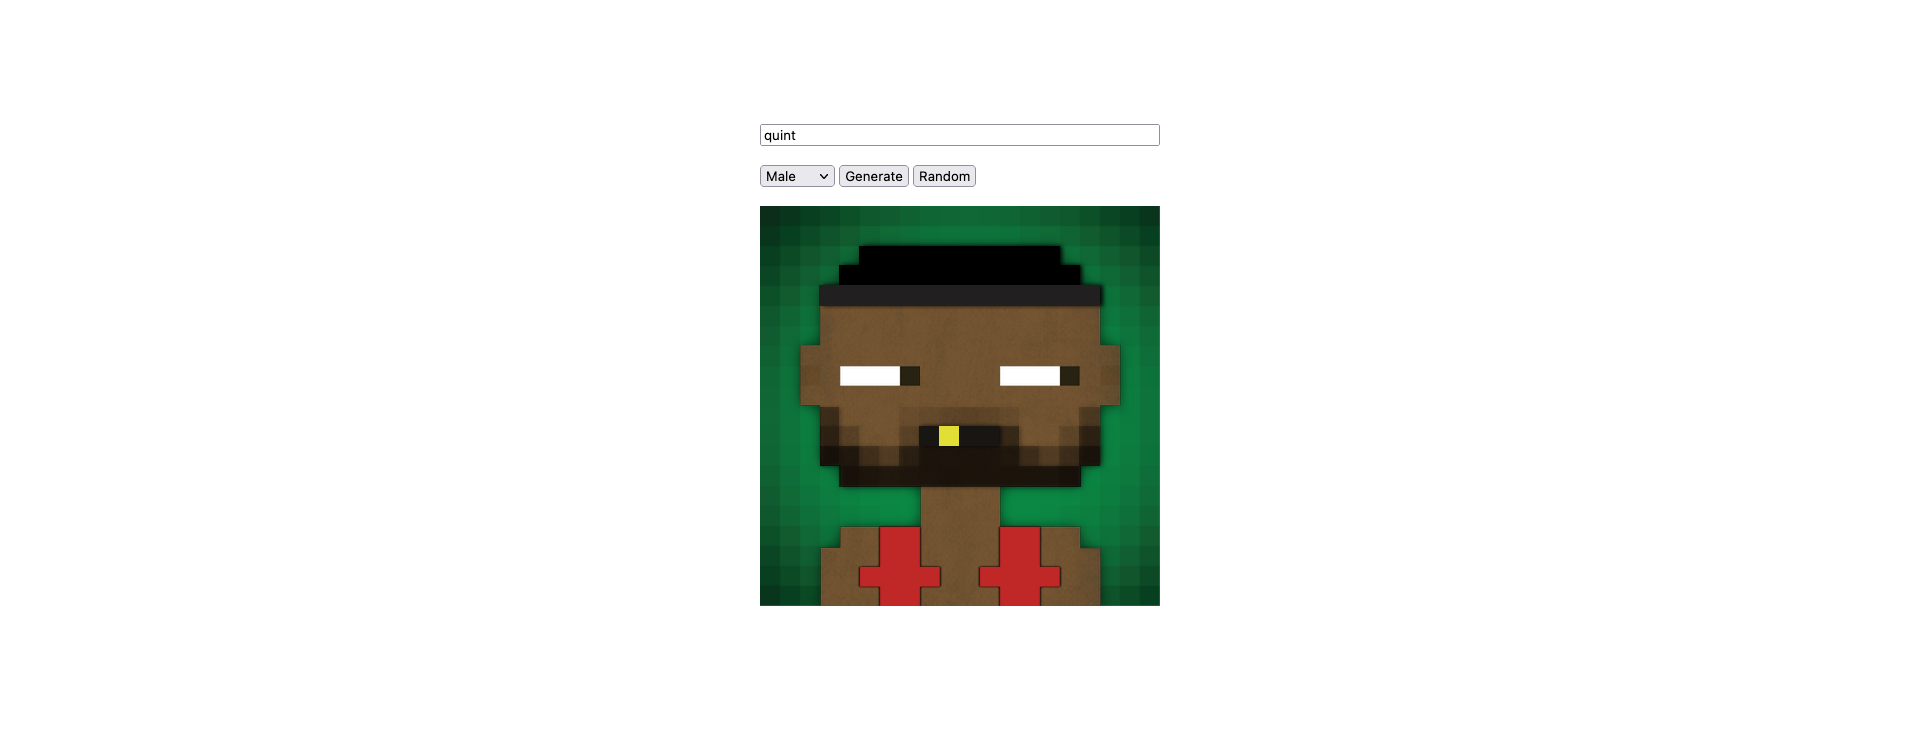
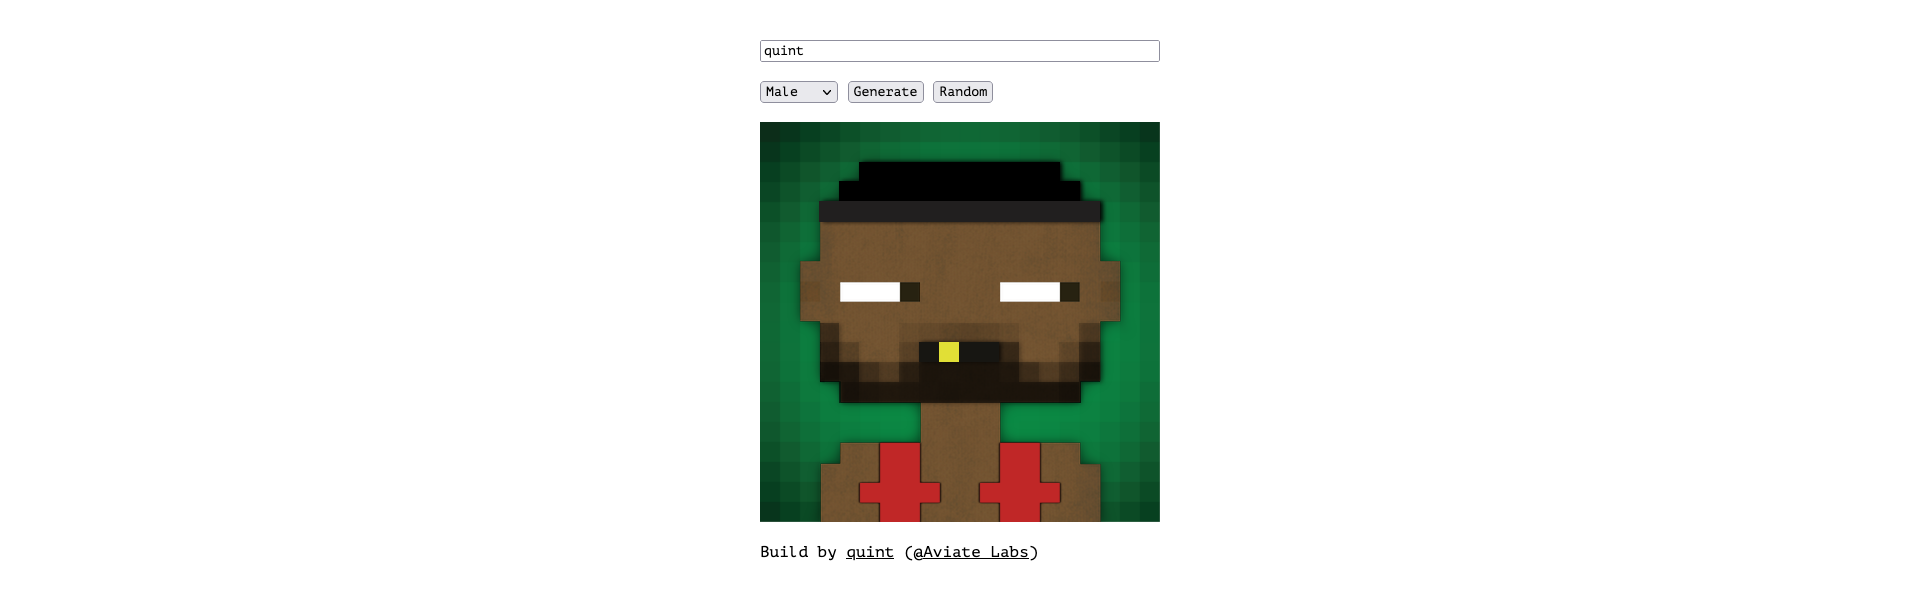
Deploy to IC.

diff --git a/src/go_assets/src/index.html b/src/go_assets/src/index.html
@@ -4,9 +4,12 @@
 <head>
     <meta charset="UTF-8">
     <meta name="viewport" content="width=device-width">
-    <title>Golang on the Internet Computer</title>
+    <title>Golang on the IC</title>
     <base href="/">
 
+    <link rel="preconnect" href="https://fonts.gstatic.com" crossorigin="">
+    <link href="https://fonts.googleapis.com/css2?family=PT+Mono&amp;display=swap" rel="stylesheet">
+    <link rel="preconnect" href="https://fonts.googleapis.com">
     <link type="text/css" rel="stylesheet" href="main.css" />
     <script src="wasm_exec.js"></script>
     <script src="load.js"></script>
@@ -27,6 +30,8 @@
             <br />
             <br />
             <img src="" id="img" />
+            <br />
+            <p>Build by <a href="https://twitter.com/quint_av8">quint</a> (@<a href="https://github.com/aviate-labs">Aviate Labs</a>)</p>
         </div>
     </div>
 </body>

diff --git a/src/go_assets/assets/main.css b/src/go_assets/assets/main.css
@@ -1,3 +1,7 @@
+* {
+    font-family: 'PT Mono', monospace;
+}
+
 body {
     height: 100vh;
 }
@@ -17,4 +21,9 @@ body {
 
 input {
     width: 392px;
+}
+
+a {
+    text-decoration: underline;
+    color: black;
 }
